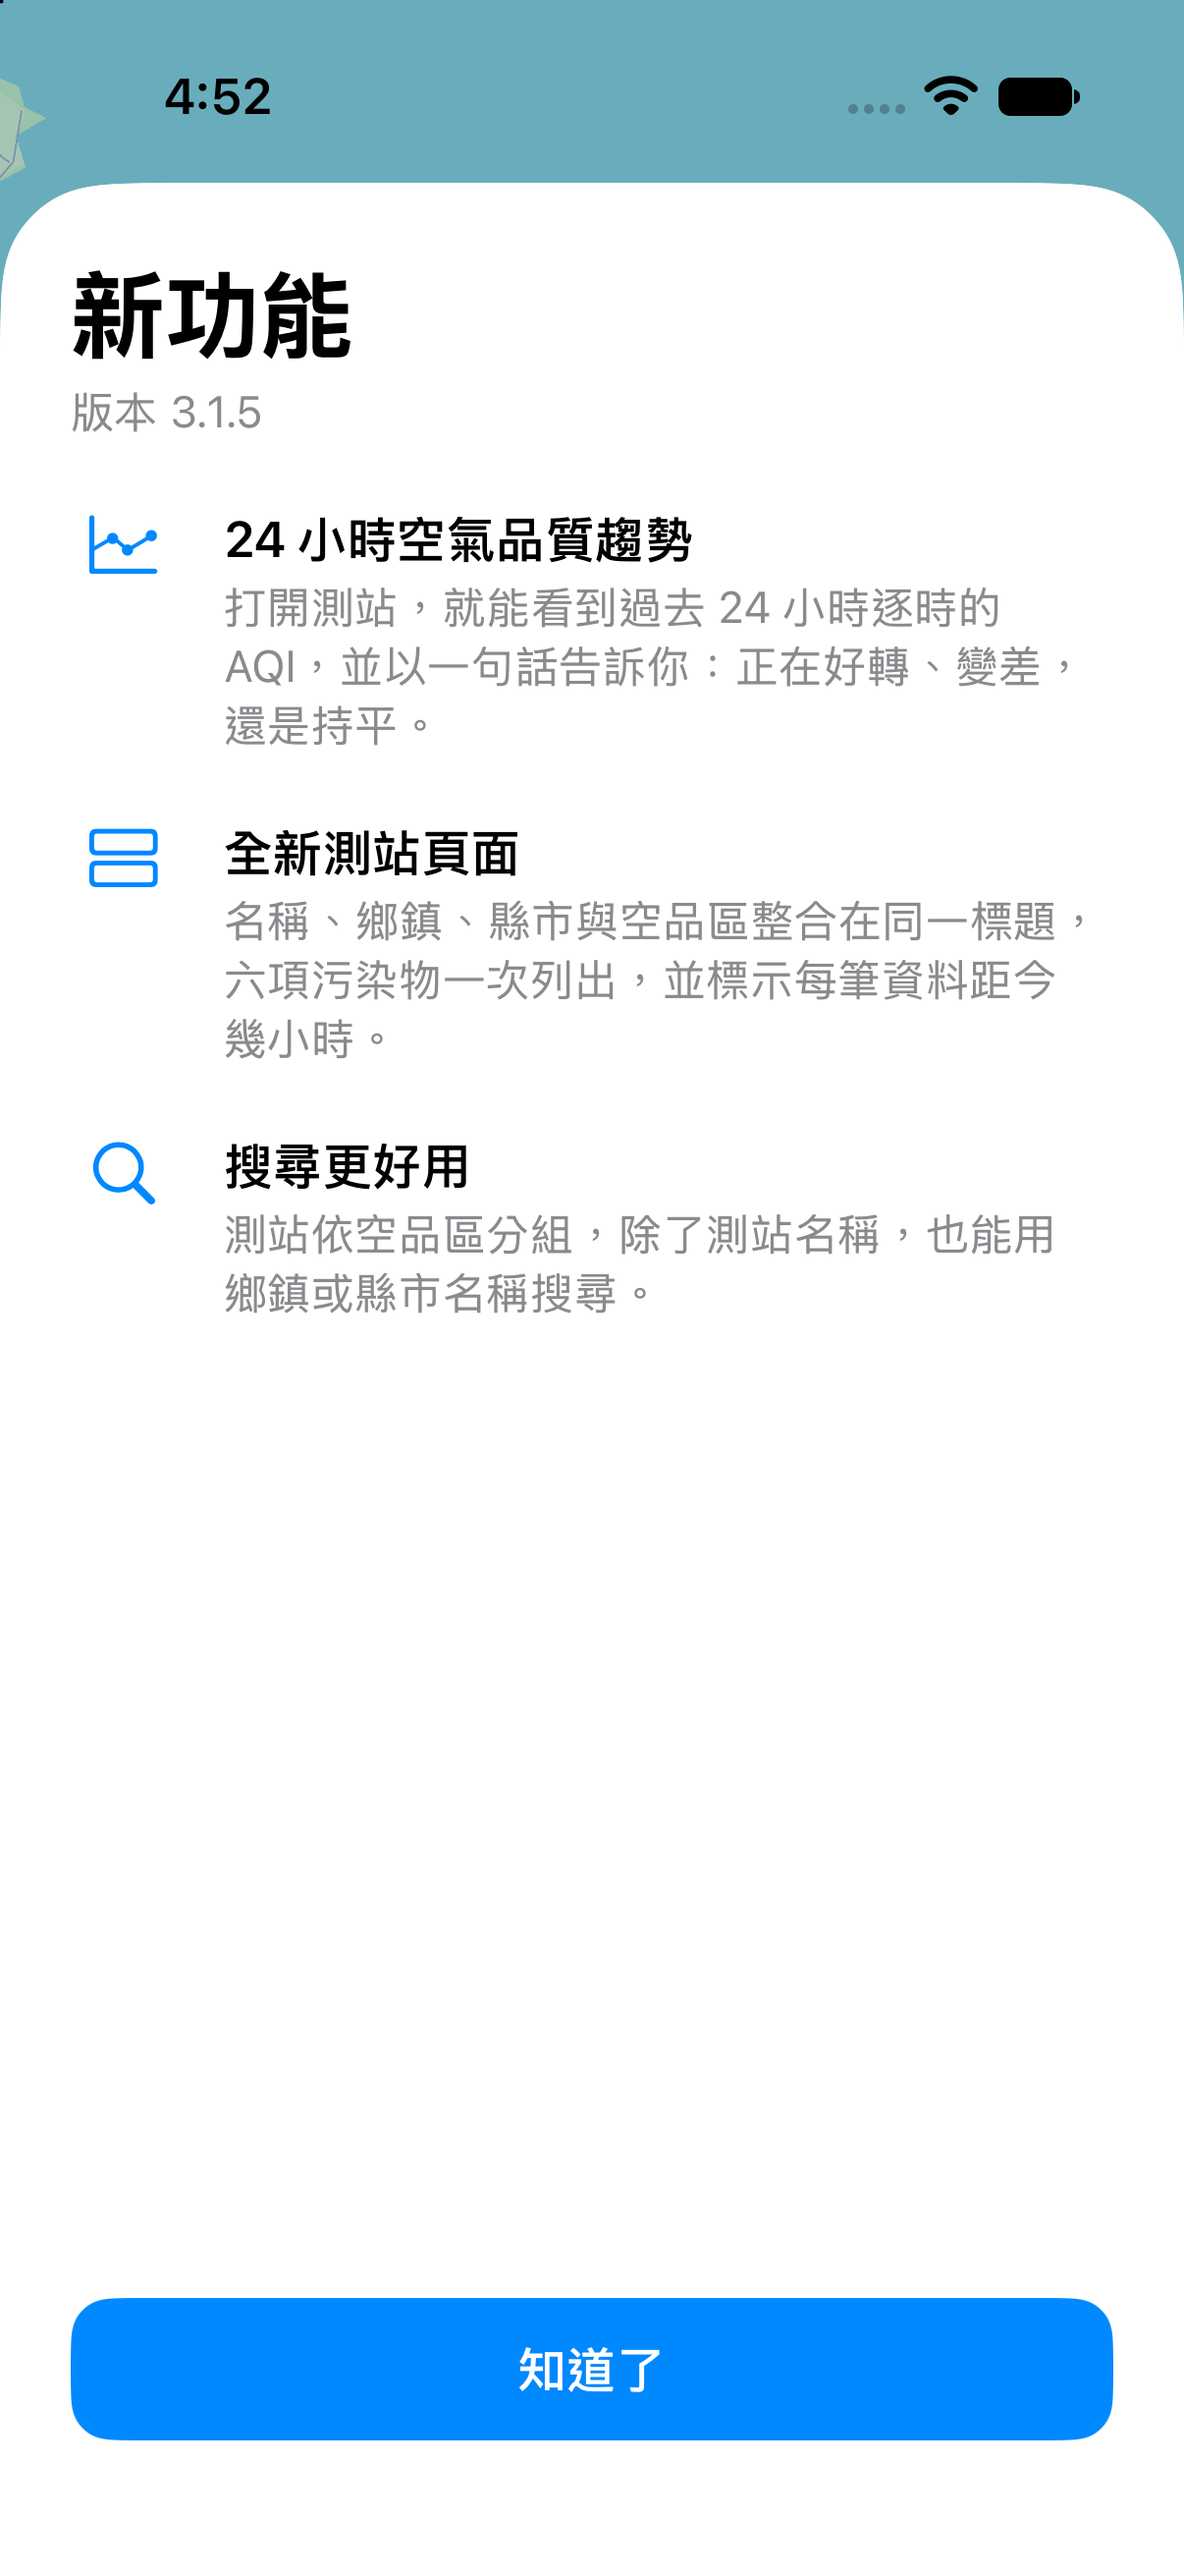
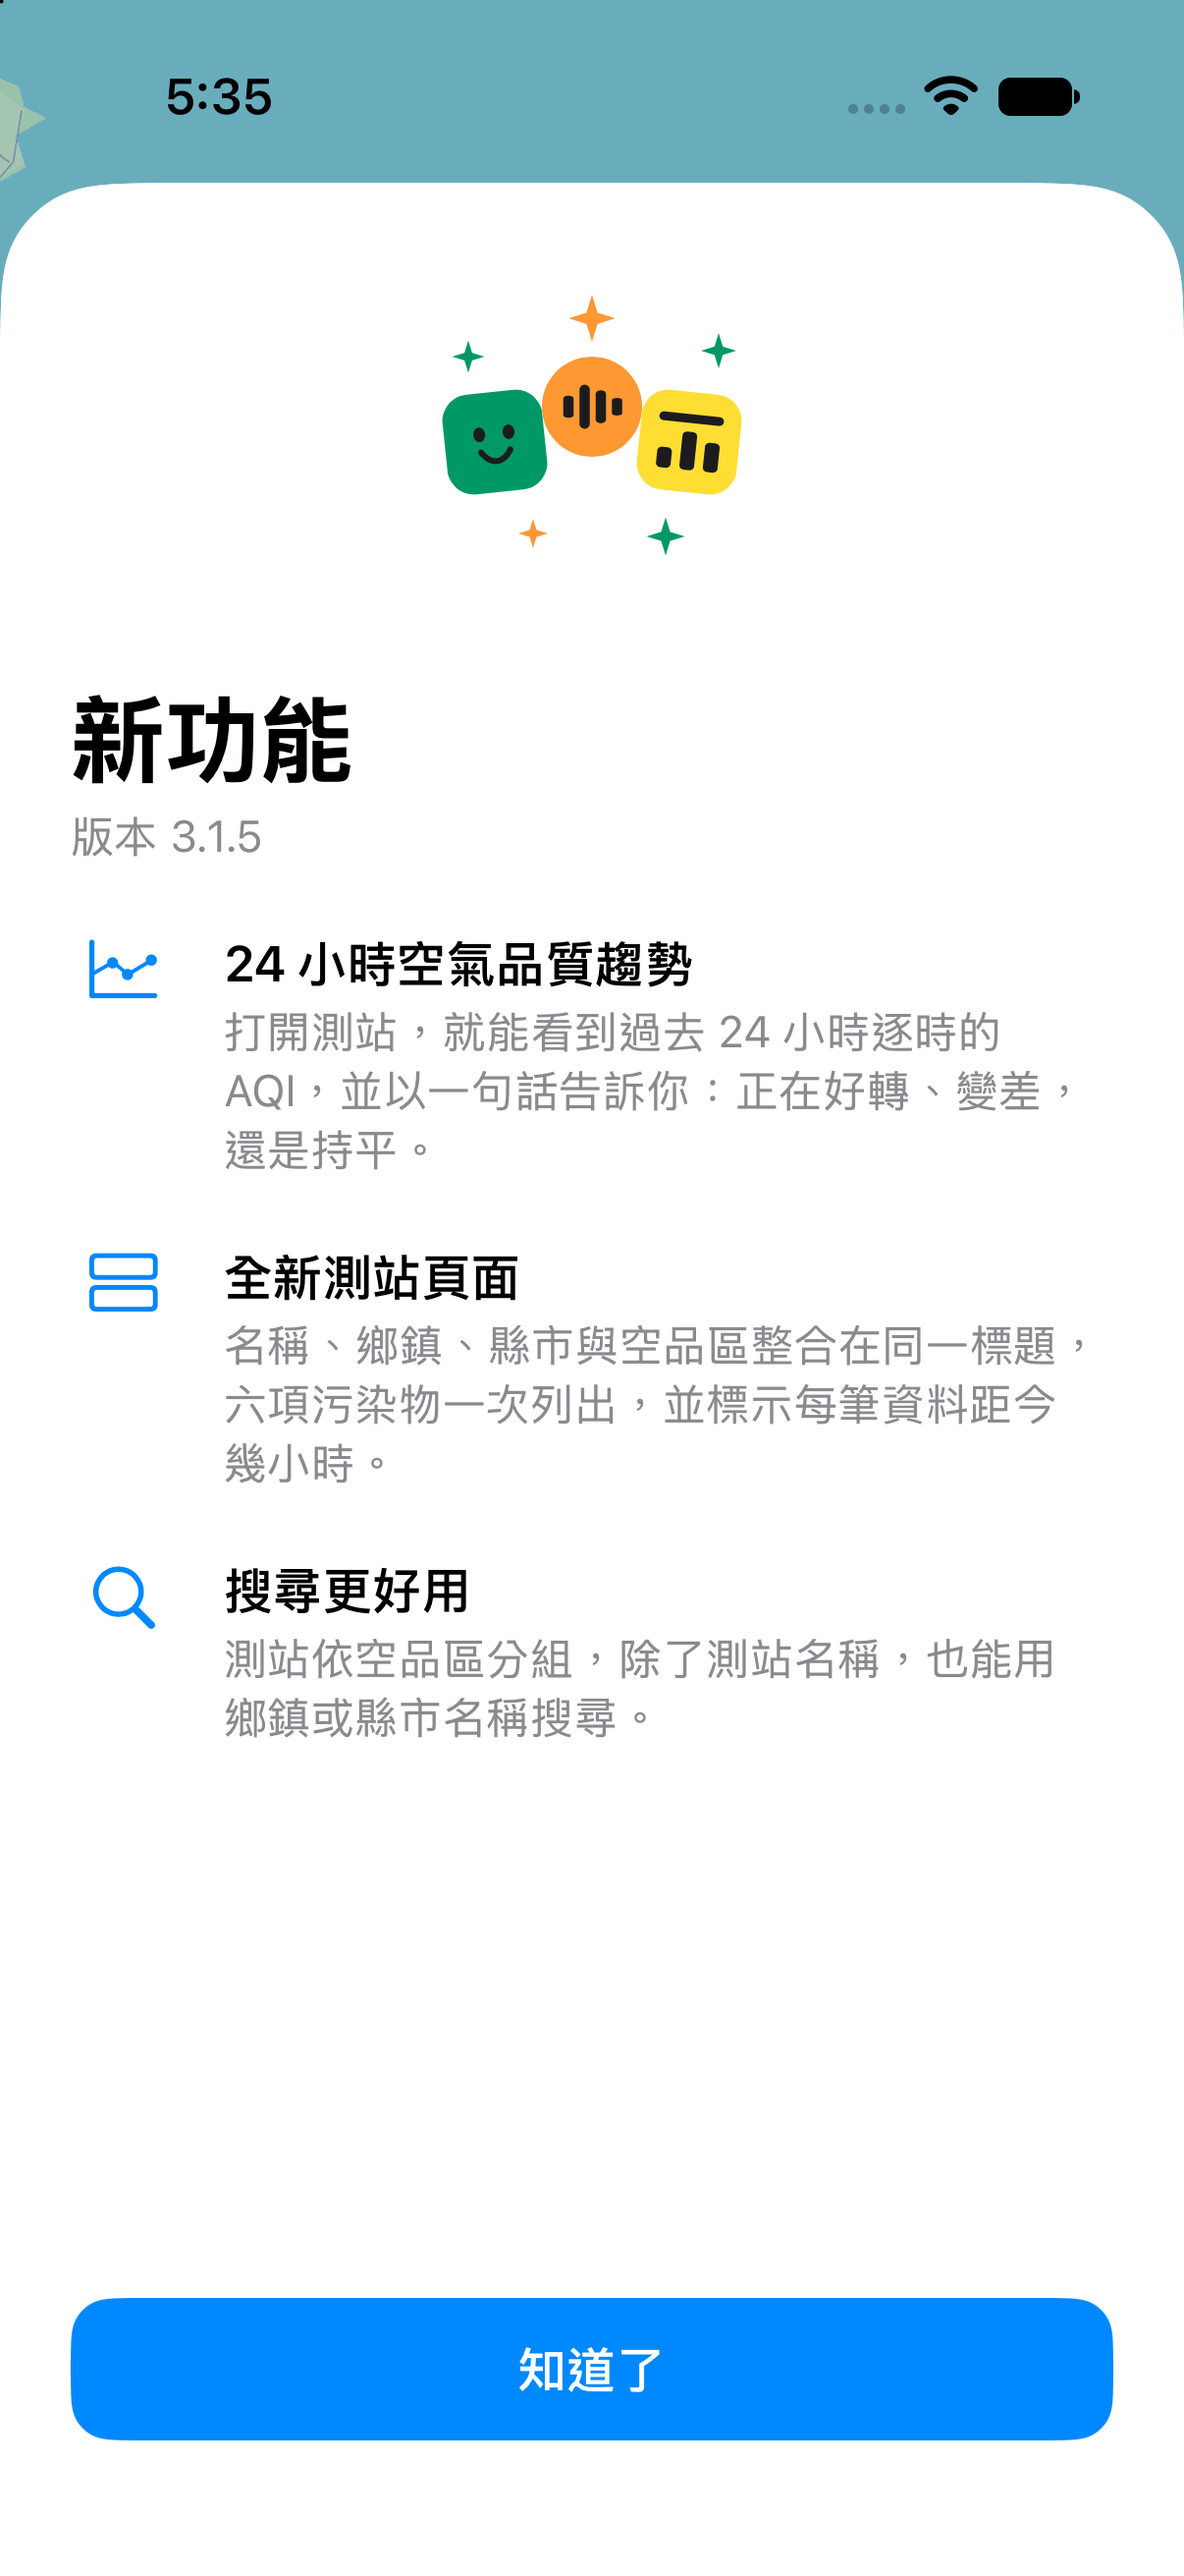
FOX-142: Lottie animation at the top of What's New

diff --git a/ios/TWAQI/Views/Help/WhatsNewView.swift b/ios/TWAQI/Views/Help/WhatsNewView.swift
@@ -20,6 +20,11 @@ struct WhatsNewView: View {
     var body: some View {
         ScrollView {
             VStack(alignment: .leading, spacing: 24) {
+                // The welcome flow's sparkles Lottie (FOX-84), played once;
+                // still under Reduce Motion, skipped by VoiceOver.
+                OnboardingAnimationView(animation: .more, size: 120, tint: .accentColor)
+                    .frame(maxWidth: .infinity)
+
                 VStack(alignment: .leading, spacing: 4) {
                     Text("WhatsNew.title")
                         .font(.largeTitle.bold())
